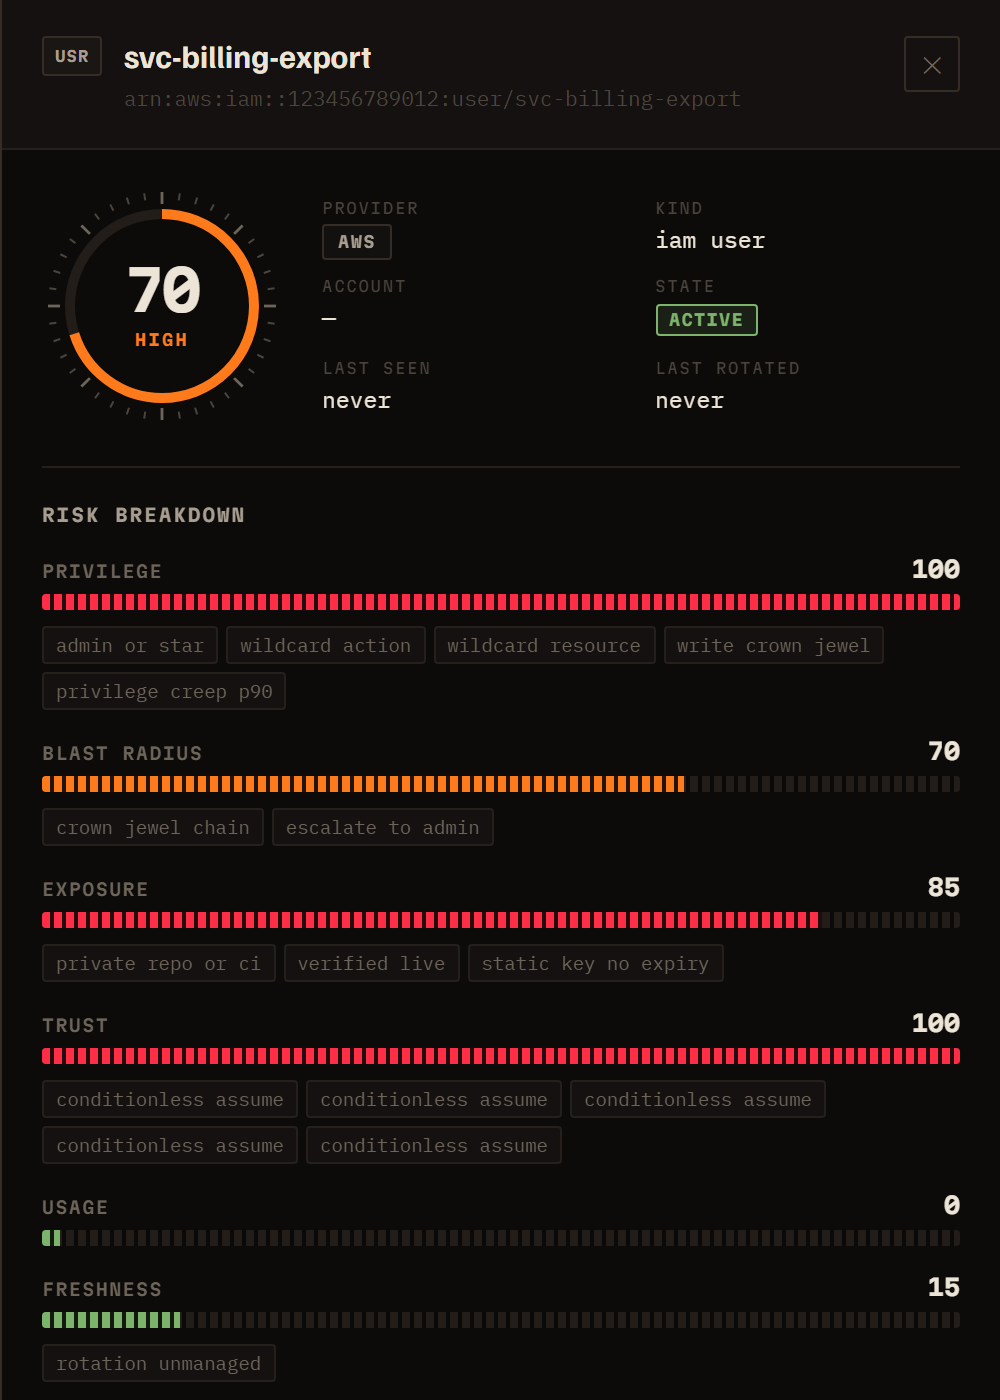
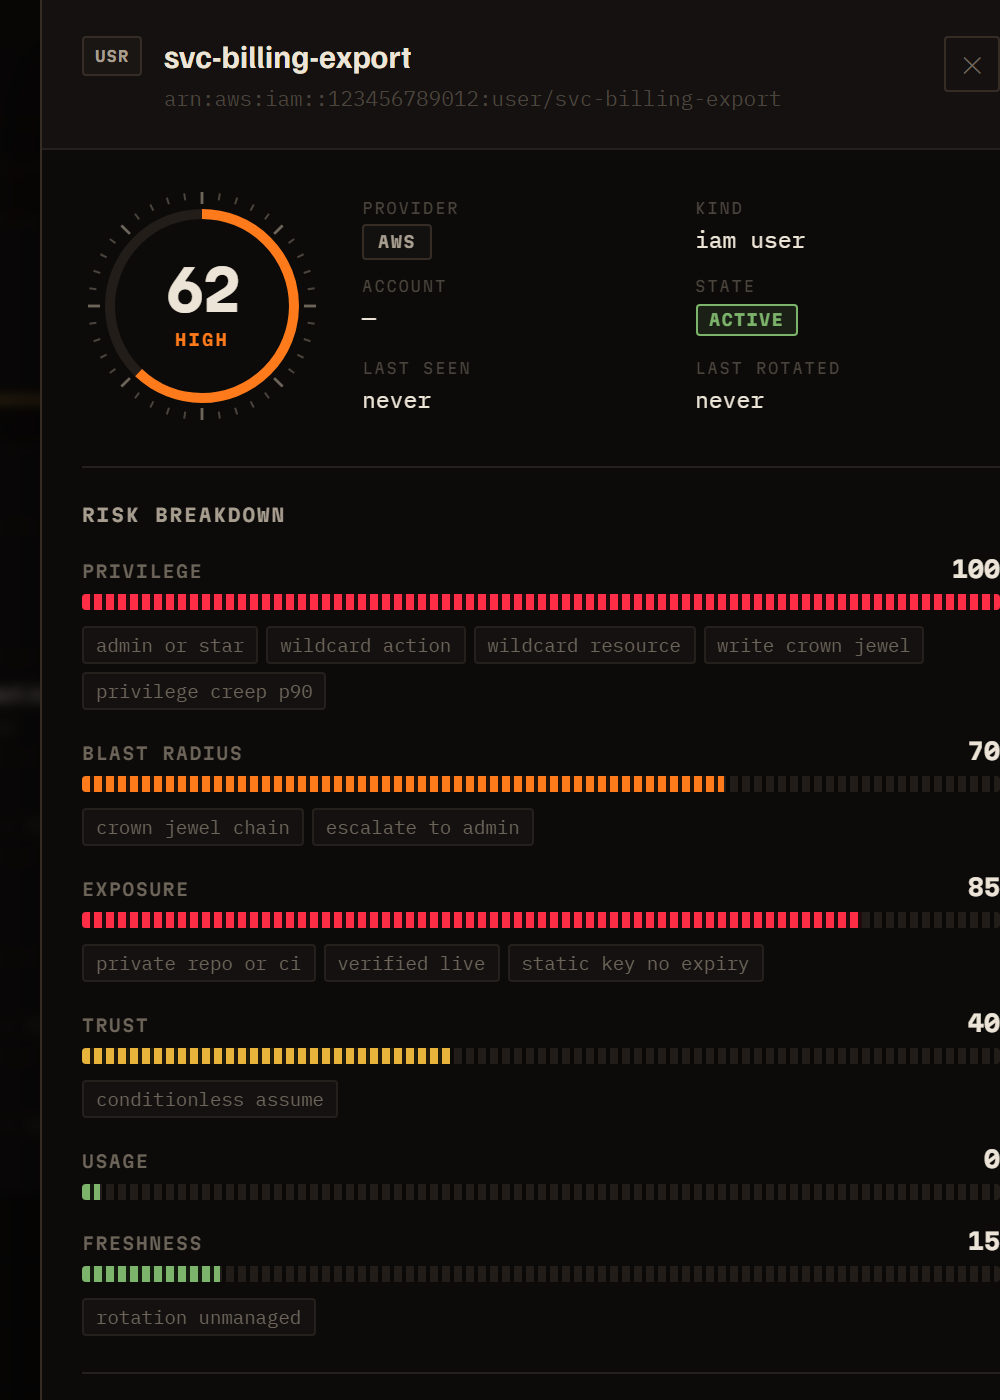
docs: regenerate score-bearing screenshots after the idempotency fix
dashboard.png, triage.png, and risk-breakdown.png were captured against the
duplicate-edge database and showed the inflated numbers. Recaptured from the
clean seed:

- dashboard: top-risk queue now 62 / 43 / 40 / 39 / 35 / 26, open findings 36.
- triage: 36 findings, a single secret_exposed_in_repo critical (the demo has
  one leaked credential).
- risk-breakdown: svc-billing-export gauge 62, and the trust factor now reads
  40 (conditionless_assume) rather than the clamped 100 that six duplicate
  can_assume edges produced -- this image is the visual proof of the fix.

assets/README.md's factor line updated to match (trust 100 -> 40, composite
70 -> 62).

The attack-graph stills and hover GIFs are unchanged: they show graph structure
(26 nodes, 18 edges -- the projection already deduped edges) and carry no risk
scores, so they remained accurate.

diff --git a/assets/README.md b/assets/README.md
@@ -14,7 +14,7 @@ Stills are captured at `deviceScaleFactor: 2` and downscaled, so they stay crisp
 | [`hover-attack-path.gif`](hover-attack-path.gif) | Hovering the exposed entry point `svc-billing-export` — traces its 2-hop path to the `s3:prod-billing` crown jewel (`0 upstream · 2 downstream`) |
 | [`hover-blast-radius.gif`](hover-blast-radius.gif) | Hovering the Kubernetes identity `prod/deployer` — upstream workload in rose, 4-node blast radius in amber (`1 upstream · 4 downstream`) |
 | [`triage.png`](triage.png) | The **Triage queue** — findings ranked by severity then confidence, with SARIF/CSV/JSON export |
-| [`risk-breakdown.png`](risk-breakdown.png) | An identity's **explainable 6-factor risk breakdown** — the gauge plus per-factor scores and the signals behind them (privilege 100, blast-radius 70, exposure 85, trust 100, usage 0, freshness 15 → composite 70) |
+| [`risk-breakdown.png`](risk-breakdown.png) | An identity's **explainable 6-factor risk breakdown** — the gauge plus per-factor scores and the signals behind them (privilege 100, blast-radius 70, exposure 85, trust 40, usage 0, freshness 15 → composite 62) |
 
 Everything shown is the live `make demo` dataset, computed end-to-end by the collector → graph →
 score → detect pipeline. The graph layout is deterministic (the API orders its node/edge reads), so